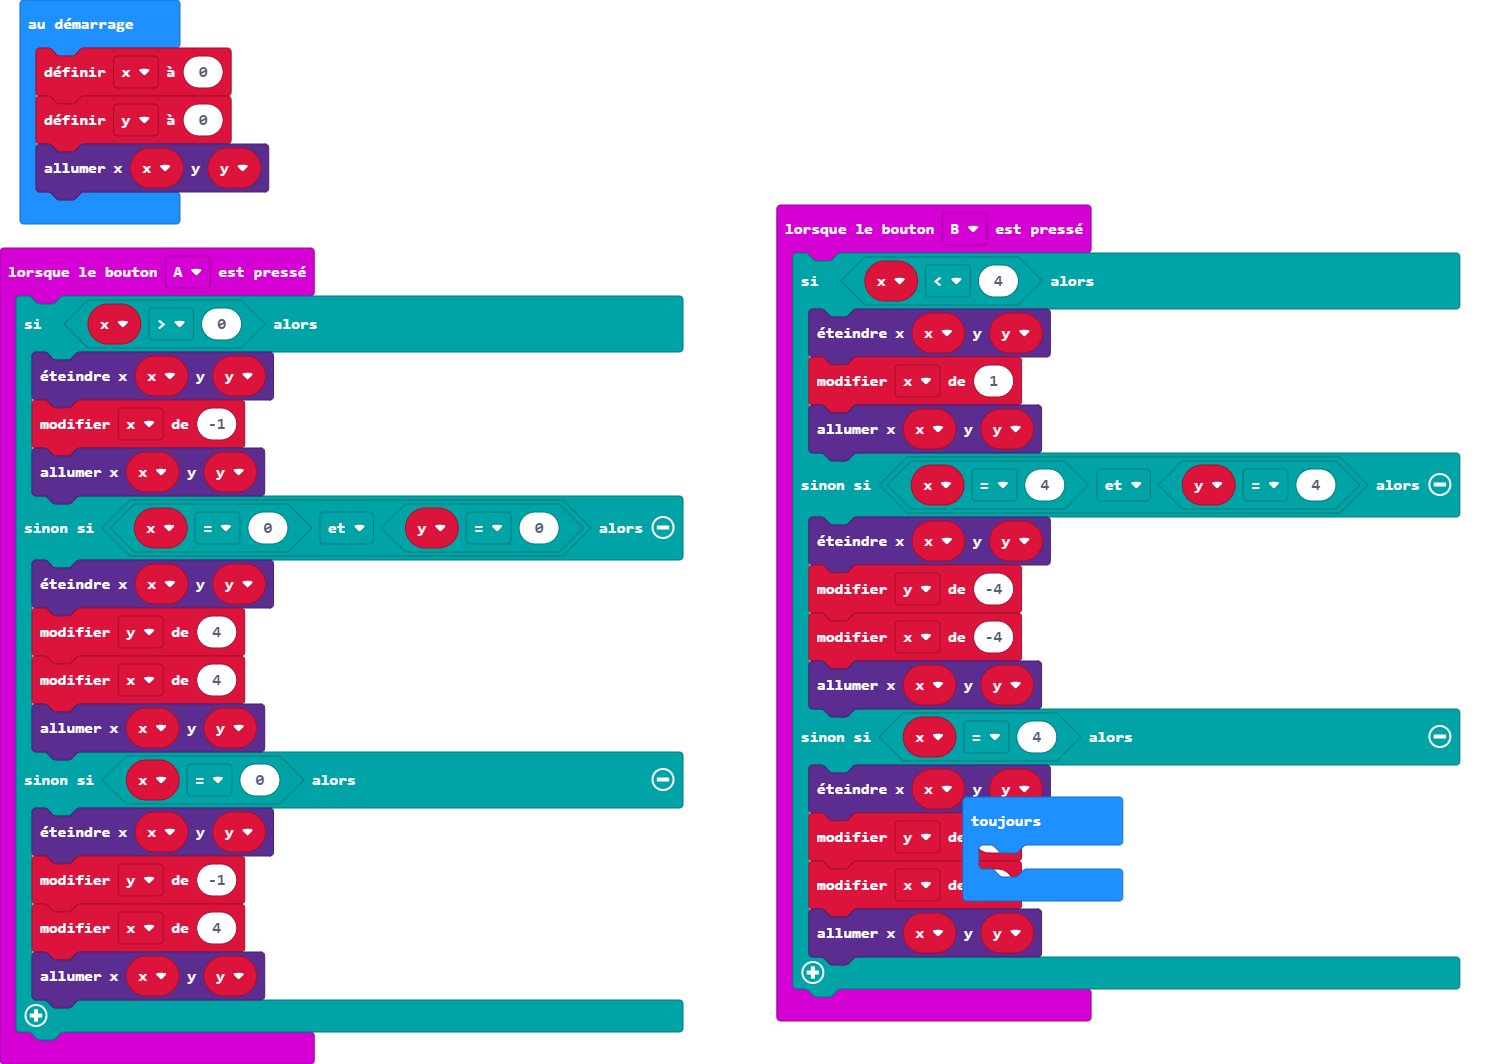
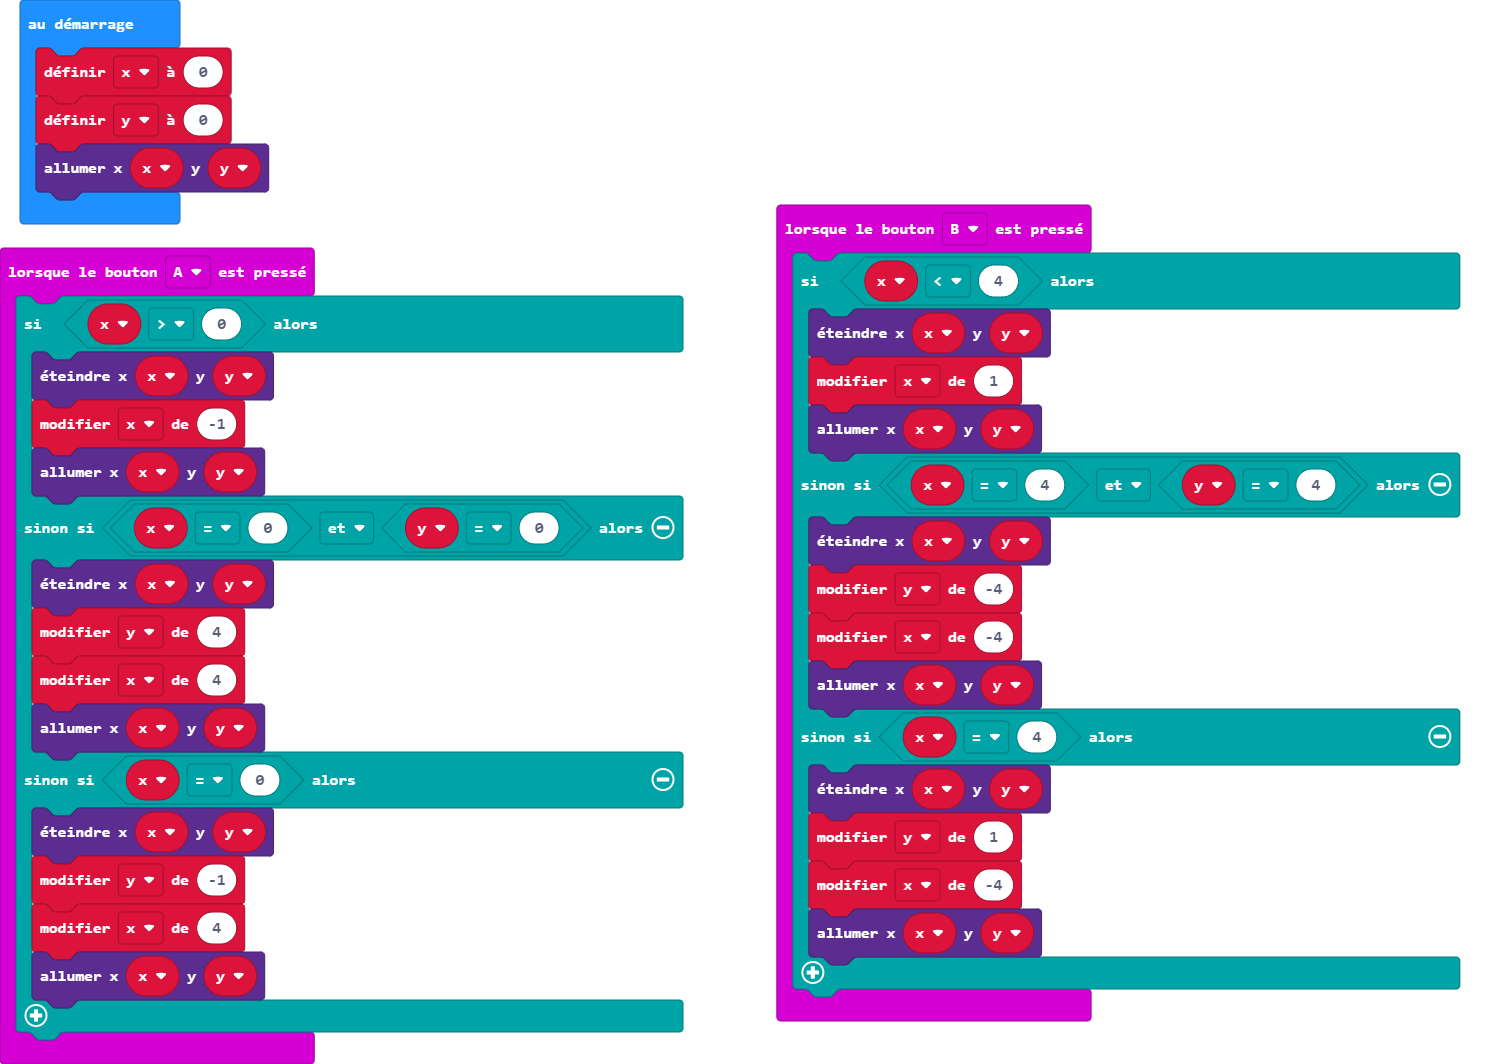
Mise à jour main.blocks, main.ts

Changed region(s): [[0.6217, 0.7444, 0.746, 0.8684]]

diff --git a/main.ts b/main.ts
@@ -37,6 +37,3 @@ let x = 0
 x = 0
 y = 0
 led.plot(x, y)
-basic.forever(function () {
-	
-})
